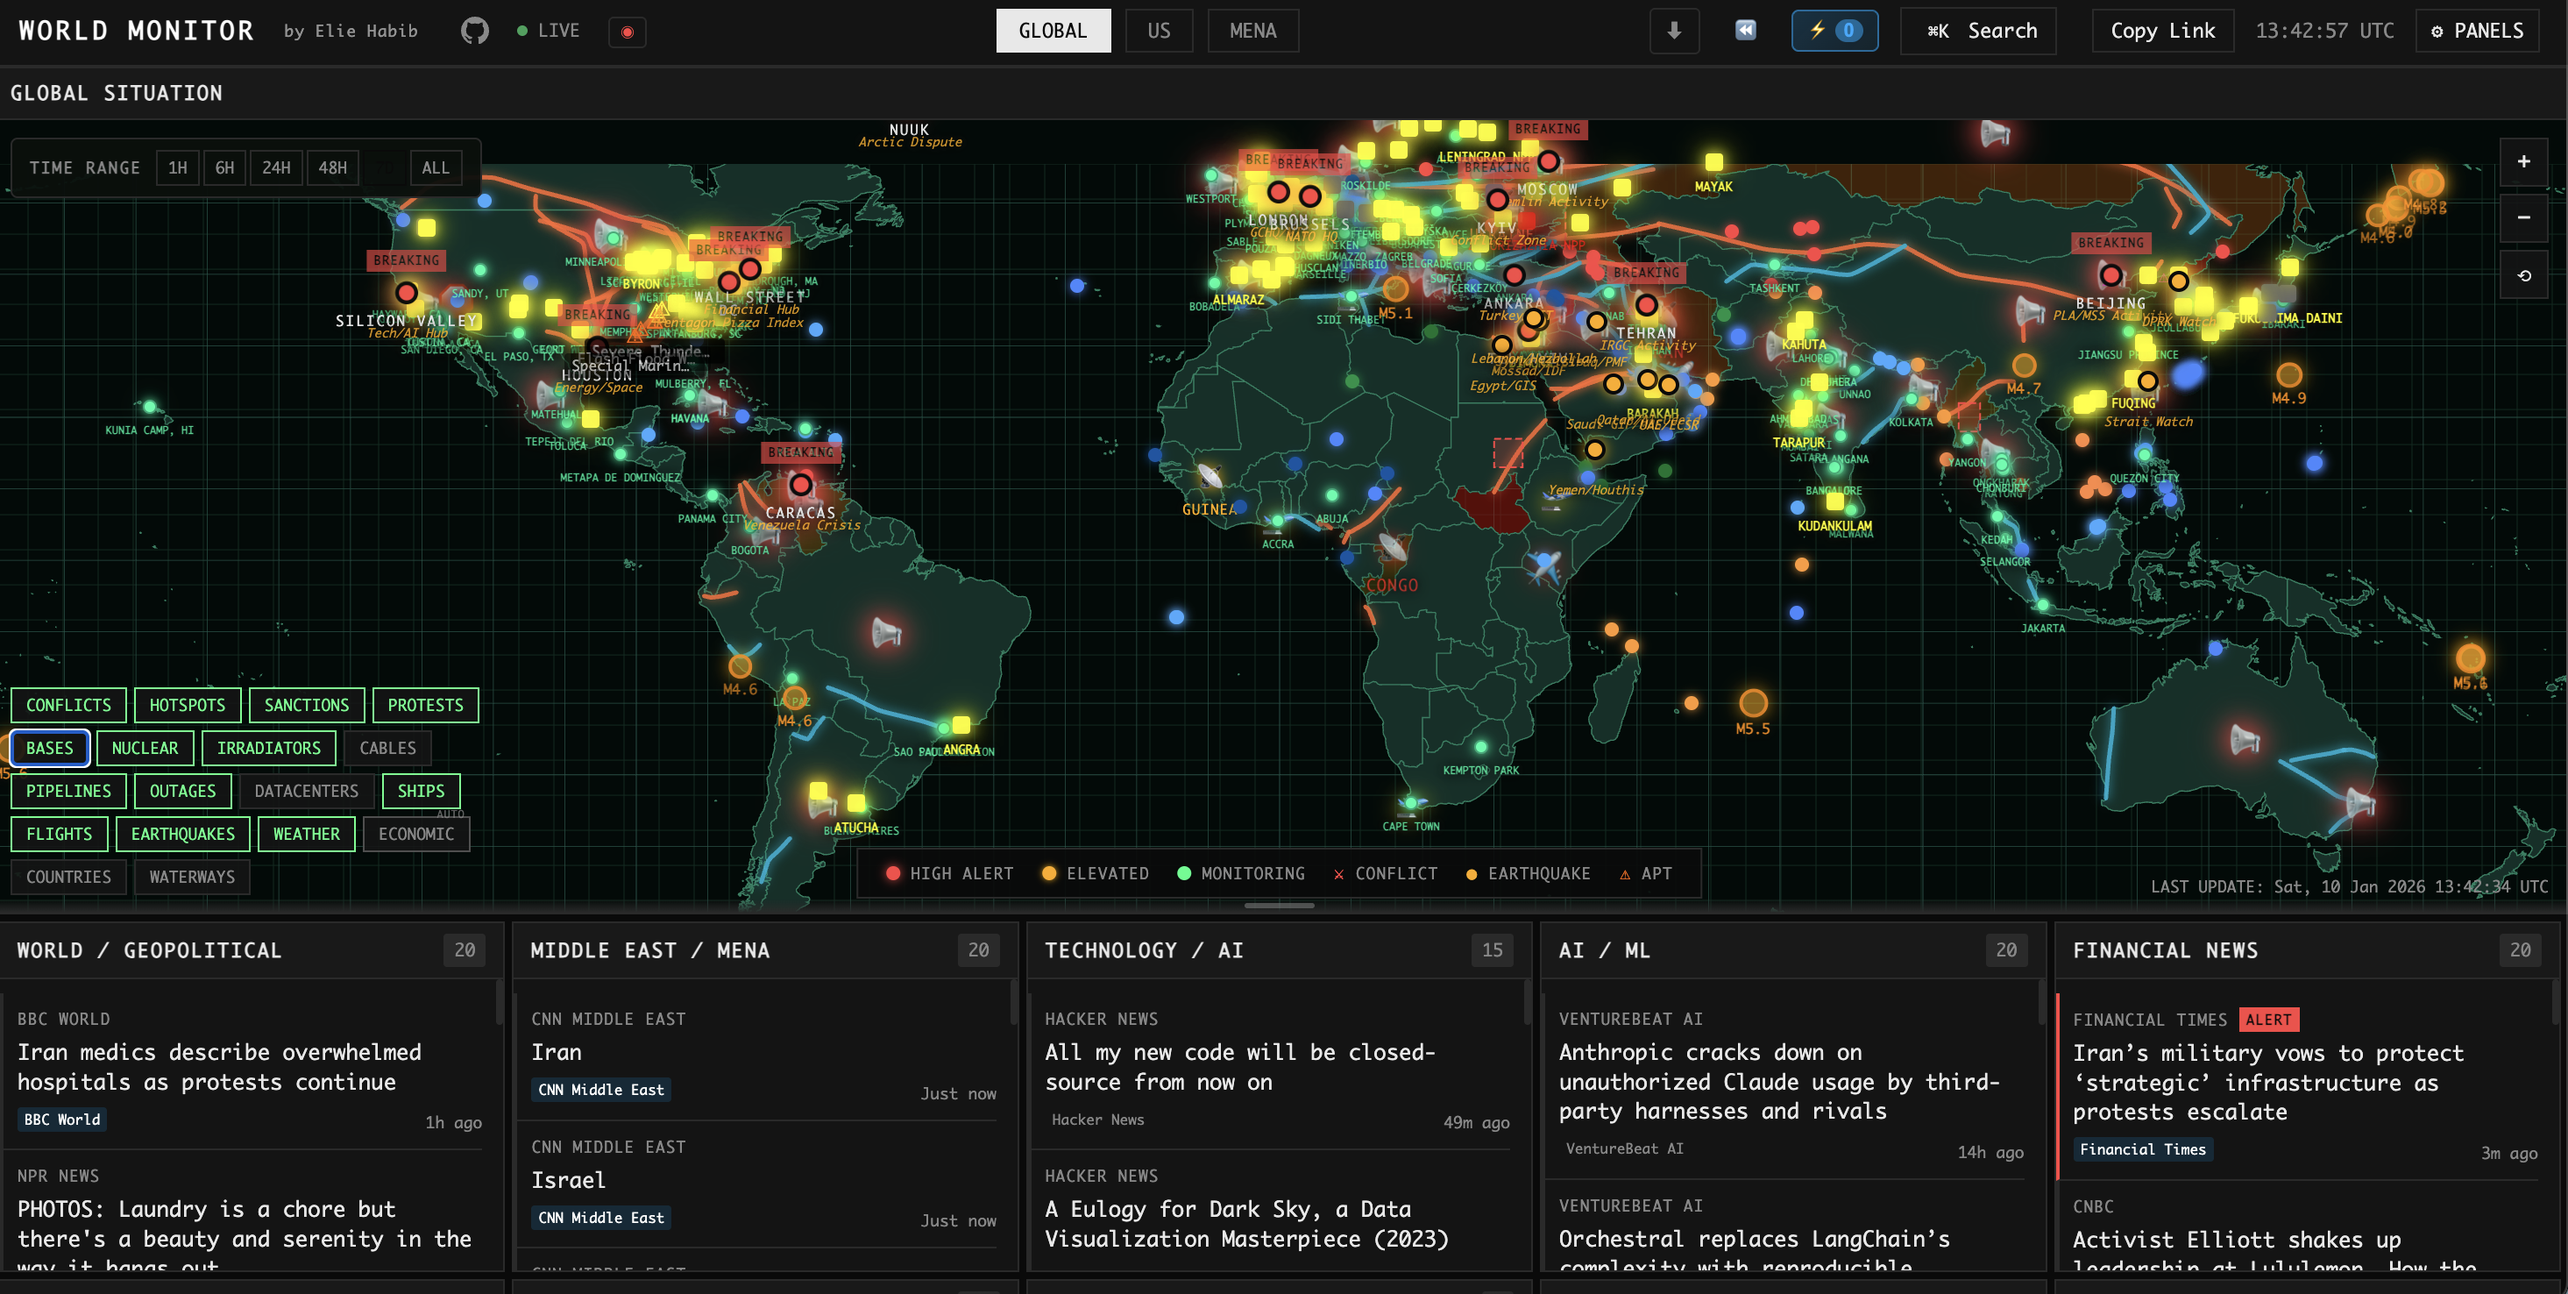
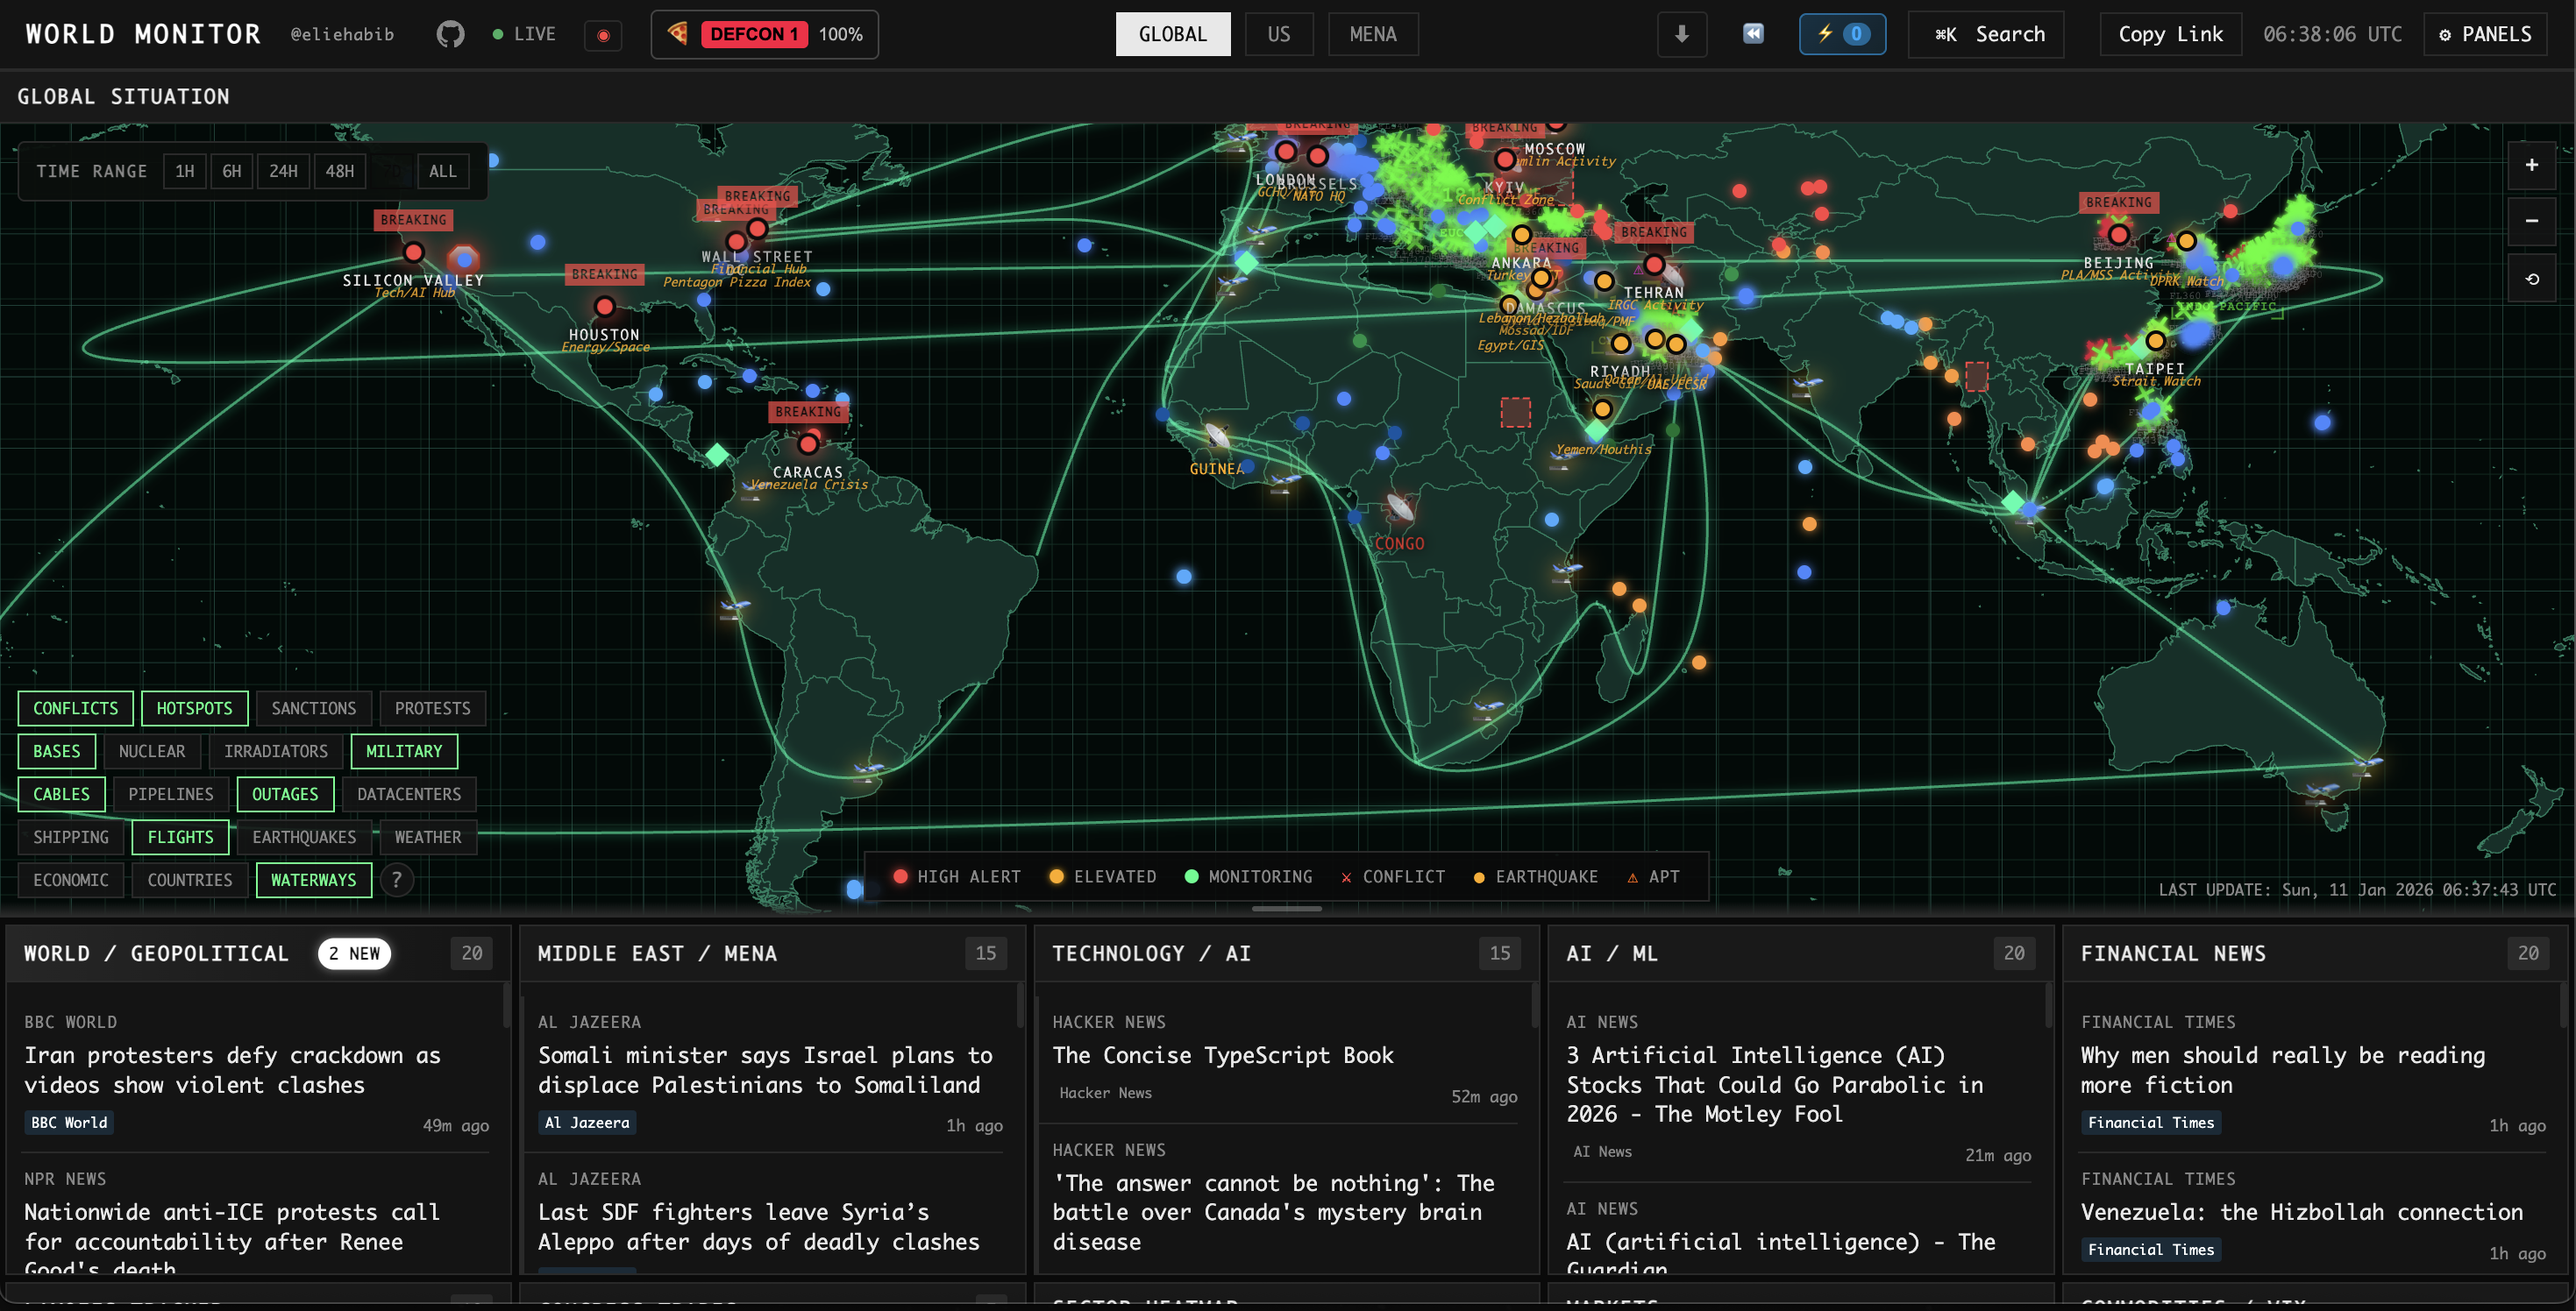
Improve help popup - scrollable, time filter docs
- Add scroll event interception to prevent map zoom while scrolling popup
- Add Time Filter section explaining 1H/6H/24H/7D/30D/ALL options
- Clarify data filtering (cables = 20 backbone routes, datacenters ≥10k GPUs)
- Add note about which layers are affected by time filter

diff --git a/src/components/Map.ts b/src/components/Map.ts
@@ -292,46 +292,59 @@ export class MapComponent {
       </div>
       <div class="layer-help-content">
         <div class="layer-help-section">
+          <div class="layer-help-title">Time Filter (top-right)</div>
+          <div class="layer-help-item"><span>1H/6H/24H</span> Filter time-based data to recent hours</div>
+          <div class="layer-help-item"><span>7D/30D/ALL</span> Show data from past week, month, or all time</div>
+          <div class="layer-help-note">Affects: Earthquakes, Weather, Protests, Outages</div>
+        </div>
+        <div class="layer-help-section">
           <div class="layer-help-title">Geopolitical</div>
-          <div class="layer-help-item"><span>CONFLICTS</span> Active war zones and armed conflicts (ACLED data)</div>
-          <div class="layer-help-item"><span>HOTSPOTS</span> Regions with elevated geopolitical tensions</div>
-          <div class="layer-help-item"><span>SANCTIONS</span> Countries/entities under international sanctions</div>
-          <div class="layer-help-item"><span>PROTESTS</span> Civil unrest, riots, and demonstrations (ACLED/GDELT)</div>
+          <div class="layer-help-item"><span>CONFLICTS</span> Active war zones (Ukraine, Gaza, etc.) with boundaries</div>
+          <div class="layer-help-item"><span>HOTSPOTS</span> Tension regions - color-coded by news activity level</div>
+          <div class="layer-help-item"><span>SANCTIONS</span> Countries under US/EU/UN economic sanctions</div>
+          <div class="layer-help-item"><span>PROTESTS</span> Civil unrest, demonstrations (time-filtered)</div>
         </div>
         <div class="layer-help-section">
           <div class="layer-help-title">Military & Strategic</div>
-          <div class="layer-help-item"><span>BASES</span> Major US/NATO, China, and Russia military installations</div>
-          <div class="layer-help-item"><span>NUCLEAR</span> Nuclear power plants, enrichment, and weapons facilities</div>
-          <div class="layer-help-item"><span>IRRADIATORS</span> Industrial gamma irradiator facilities (IAEA)</div>
-          <div class="layer-help-item"><span>MILITARY</span> Live military aircraft tracking via OpenSky Network (crosshairs)</div>
+          <div class="layer-help-item"><span>BASES</span> US/NATO, China, Russia military installations (150+)</div>
+          <div class="layer-help-item"><span>NUCLEAR</span> Power plants, enrichment, weapons facilities (IAEA)</div>
+          <div class="layer-help-item"><span>IRRADIATORS</span> Industrial gamma irradiator facilities</div>
+          <div class="layer-help-item"><span>MILITARY</span> Live aircraft/vessel tracking (OpenSky) - crosshairs</div>
         </div>
         <div class="layer-help-section">
           <div class="layer-help-title">Infrastructure</div>
-          <div class="layer-help-item"><span>CABLES</span> Undersea fiber optic cables carrying global internet traffic</div>
-          <div class="layer-help-item"><span>PIPELINES</span> Major oil and gas pipeline infrastructure</div>
-          <div class="layer-help-item"><span>OUTAGES</span> Internet blackouts and connectivity disruptions</div>
-          <div class="layer-help-item"><span>DATACENTERS</span> Major AI/GPU compute clusters worldwide</div>
+          <div class="layer-help-item"><span>CABLES</span> Major undersea fiber optic cables (20 backbone routes)</div>
+          <div class="layer-help-item"><span>PIPELINES</span> Oil/gas pipelines (Nord Stream, TAPI, etc.)</div>
+          <div class="layer-help-item"><span>OUTAGES</span> Internet blackouts via Cloudflare Radar</div>
+          <div class="layer-help-item"><span>DATACENTERS</span> AI compute clusters ≥10,000 GPUs only</div>
         </div>
         <div class="layer-help-section">
           <div class="layer-help-title">Transport</div>
-          <div class="layer-help-item"><span>SHIPPING</span> Live vessel tracking in strategic waterways (AIS)</div>
-          <div class="layer-help-item"><span>FLIGHTS</span> Airport delays, ground stops, and disruptions</div>
+          <div class="layer-help-item"><span>SHIPPING</span> AIS vessel tracking in chokepoints (Hormuz, Suez)</div>
+          <div class="layer-help-item"><span>FLIGHTS</span> Airport delays/ground stops (FAA, global)</div>
         </div>
         <div class="layer-help-section">
           <div class="layer-help-title">Natural & Economic</div>
-          <div class="layer-help-item"><span>EARTHQUAKES</span> Recent seismic events M4.5+ (USGS)</div>
-          <div class="layer-help-item"><span>WEATHER</span> Severe weather alerts and warnings (NWS)</div>
-          <div class="layer-help-item"><span>ECONOMIC</span> Stock exchanges and central banks</div>
+          <div class="layer-help-item"><span>EARTHQUAKES</span> M4.5+ seismic events (USGS, time-filtered)</div>
+          <div class="layer-help-item"><span>WEATHER</span> Severe weather alerts (NWS)</div>
+          <div class="layer-help-item"><span>ECONOMIC</span> Stock exchanges & central banks</div>
         </div>
         <div class="layer-help-section">
           <div class="layer-help-title">Labels</div>
-          <div class="layer-help-item"><span>COUNTRIES</span> Country name labels</div>
-          <div class="layer-help-item"><span>WATERWAYS</span> Strategic chokepoints (Hormuz, Suez, etc.)</div>
+          <div class="layer-help-item"><span>COUNTRIES</span> Country name overlays</div>
+          <div class="layer-help-item"><span>WATERWAYS</span> Strategic chokepoint labels</div>
         </div>
       </div>
     `;
 
     popup.querySelector('.layer-help-close')?.addEventListener('click', () => popup.remove());
+
+    // Prevent scroll events from propagating to map
+    const content = popup.querySelector('.layer-help-content');
+    if (content) {
+      content.addEventListener('wheel', (e) => e.stopPropagation(), { passive: false });
+      content.addEventListener('touchmove', (e) => e.stopPropagation(), { passive: false });
+    }
 
     // Close on click outside
     setTimeout(() => {

diff --git a/src/styles/main.css b/src/styles/main.css
@@ -1250,6 +1250,15 @@ body.playback-mode .status-dot {
   background: rgba(255, 255, 255, 0.03);
 }
 
+.layer-help-note {
+  font-size: 9px;
+  color: var(--yellow);
+  font-style: italic;
+  padding: 2px 6px;
+  margin-top: 2px;
+  opacity: 0.8;
+}
+
 .hotspot {
   position: absolute;
   transform: translate(-50%, -50%) scale(var(--marker-scale, 1));
